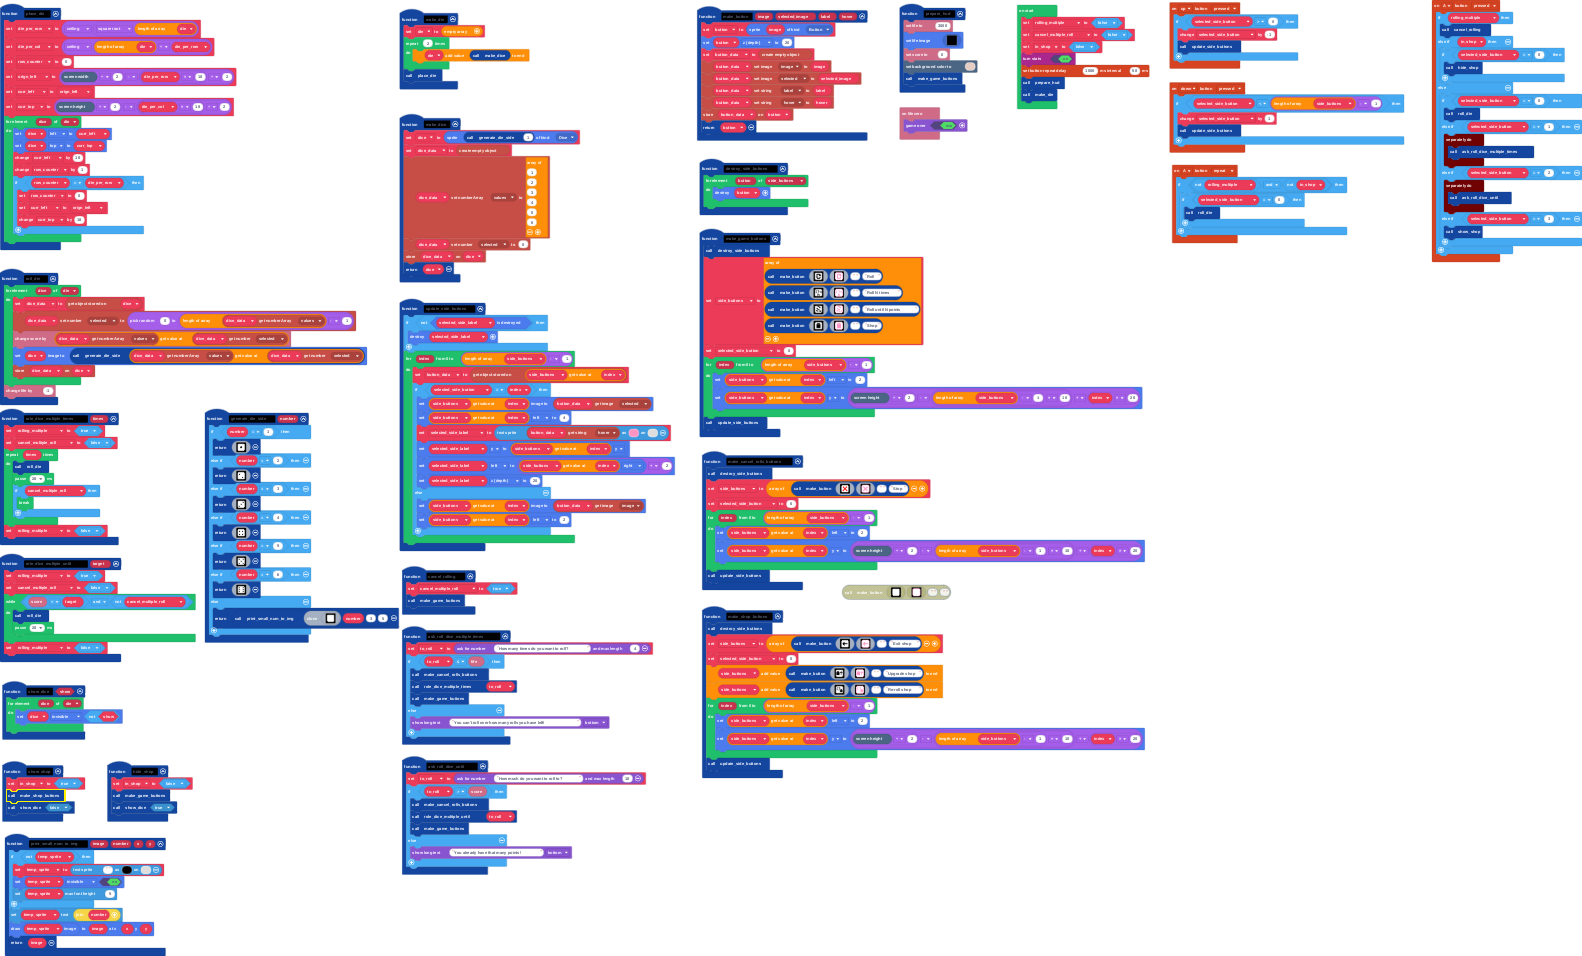
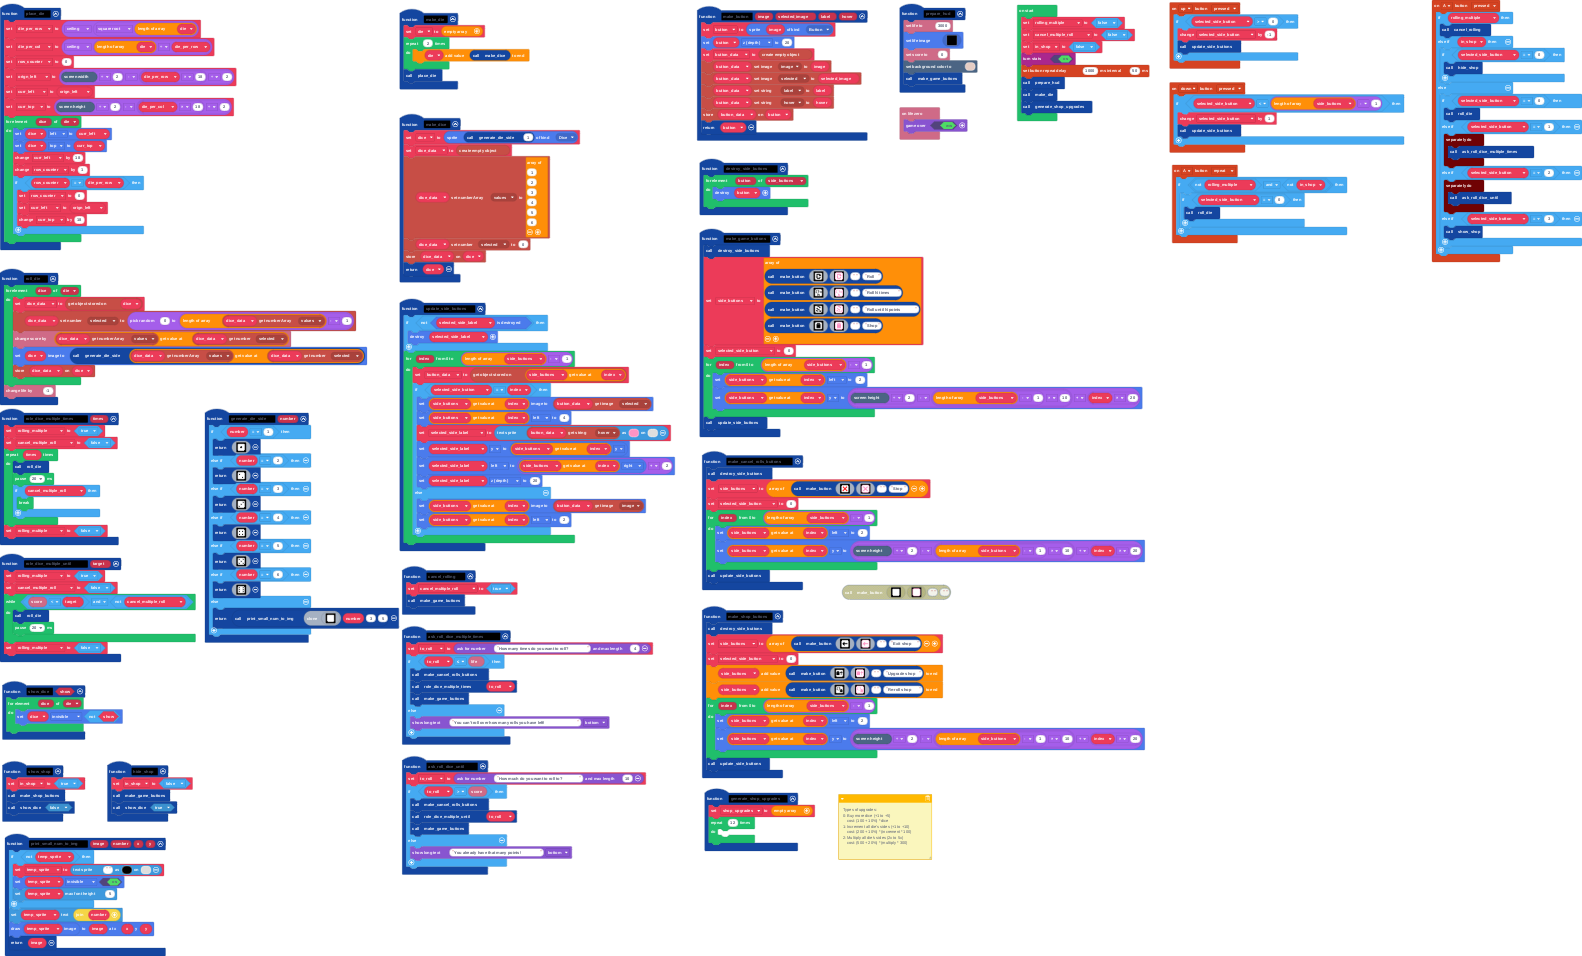
Add comment on types of shop upgrades available

Changed region(s): [[0.4336, 0.819, 0.5885, 0.91], [0.6504, 0.091, 0.7124, 0.1517]]

diff --git a/main.ts b/main.ts
@@ -16,6 +16,21 @@ namespace ImageProp {
     export const image = ImageProp.create()
     export const selected = ImageProp.create()
 }
+/**
+ * Types of upgrades:
+ * 
+ * 0: Buy more dice (+1 to +5)
+ * 
+ *     cost: (100 + 10%) * dice
+ * 
+ * 1: Increment all die's sides (+1 to +10)
+ * 
+ *     cost: (200 + 10%) * (increment * 100)
+ * 
+ * 2: Multiply all die's sides (2x to 5x)
+ * 
+ *     cost: (500 + 20%) * (multiply * 300)
+ */
 function update_side_buttons () {
     if (!(spriteutils.isDestroyed(selected_side_label))) {
         selected_side_label.destroy()
@@ -266,6 +281,12 @@ function place_die () {
         }
     }
 }
+function generate_shop_upgrades () {
+    shop_upgrades = []
+    for (let index = 0; index < 12; index++) {
+    	
+    }
+}
 function make_shop_buttons () {
     destroy_side_buttons()
     side_buttons = [make_button(assets.image`exit_shop_button`, assets.image`exit_shop_button_selected`, "", "Exit shop")]
@@ -278,6 +299,7 @@ function make_shop_buttons () {
     }
     update_side_buttons()
 }
+let shop_upgrades: number[] = []
 let curr_top = 0
 let curr_left = 0
 let orign_left = 0
@@ -304,3 +326,4 @@ stats.turnStats(true)
 controller.configureRepeatEventDefaults(1000, 50)
 prepare_hud()
 make_die()
+generate_shop_upgrades()
